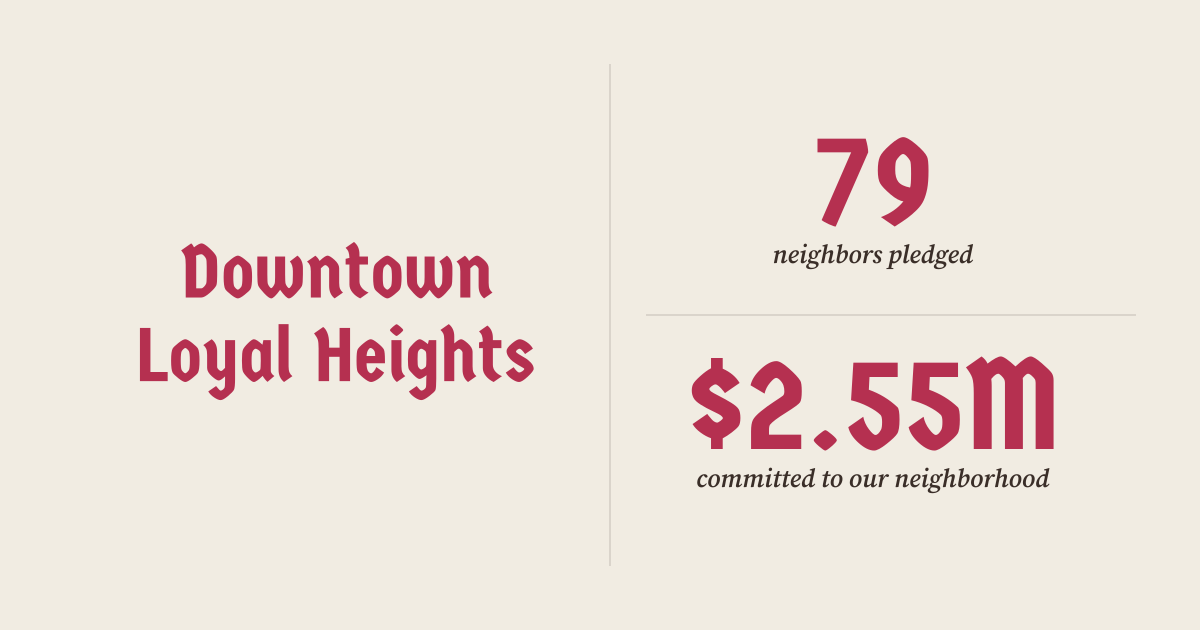
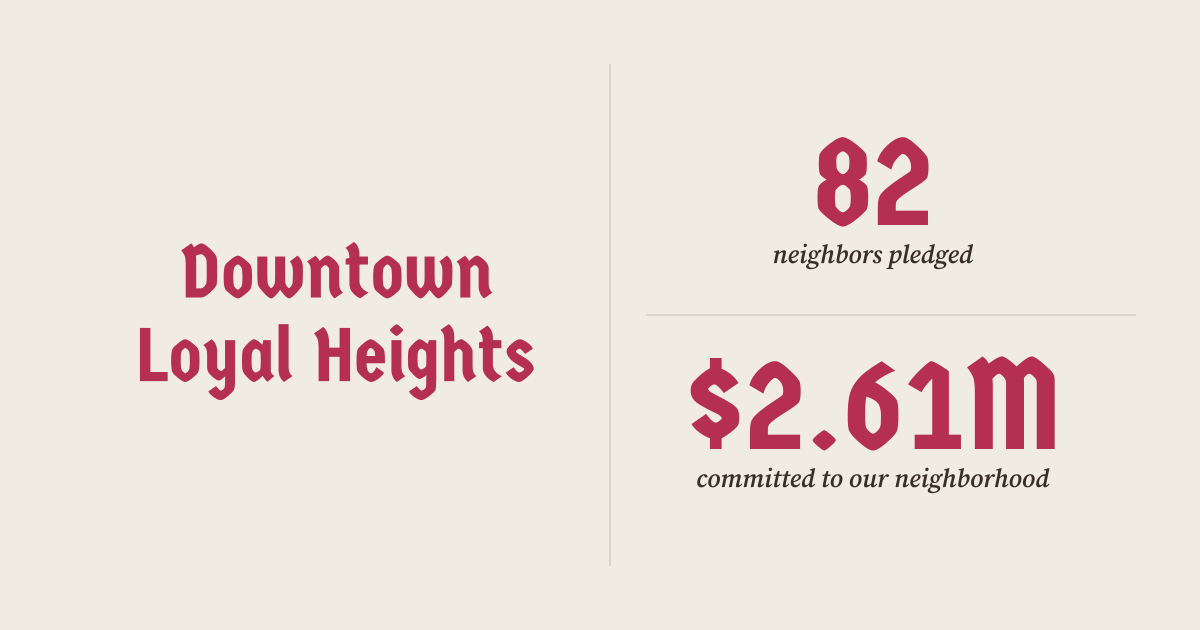
new pledges

diff --git a/content/_index.md b/content/_index.md
@@ -17,6 +17,8 @@ The answer is clear: in just {{< days-since-launch >}} days since launching this
 
 The fastest way to help is to **[fill out the interest form](/signup)** so we can gauge support and keep you posted.
 
+Everyone has ideas for this corner. **[Tell us about a place you love](/places)** — anywhere — and what makes it work, so we can borrow the best ideas (photos welcome!).
+
 Want to spread the word? Put up a flyer:
 
 Great flyers designed by [Lindsey DeVries](https://lindseydevries.com):
